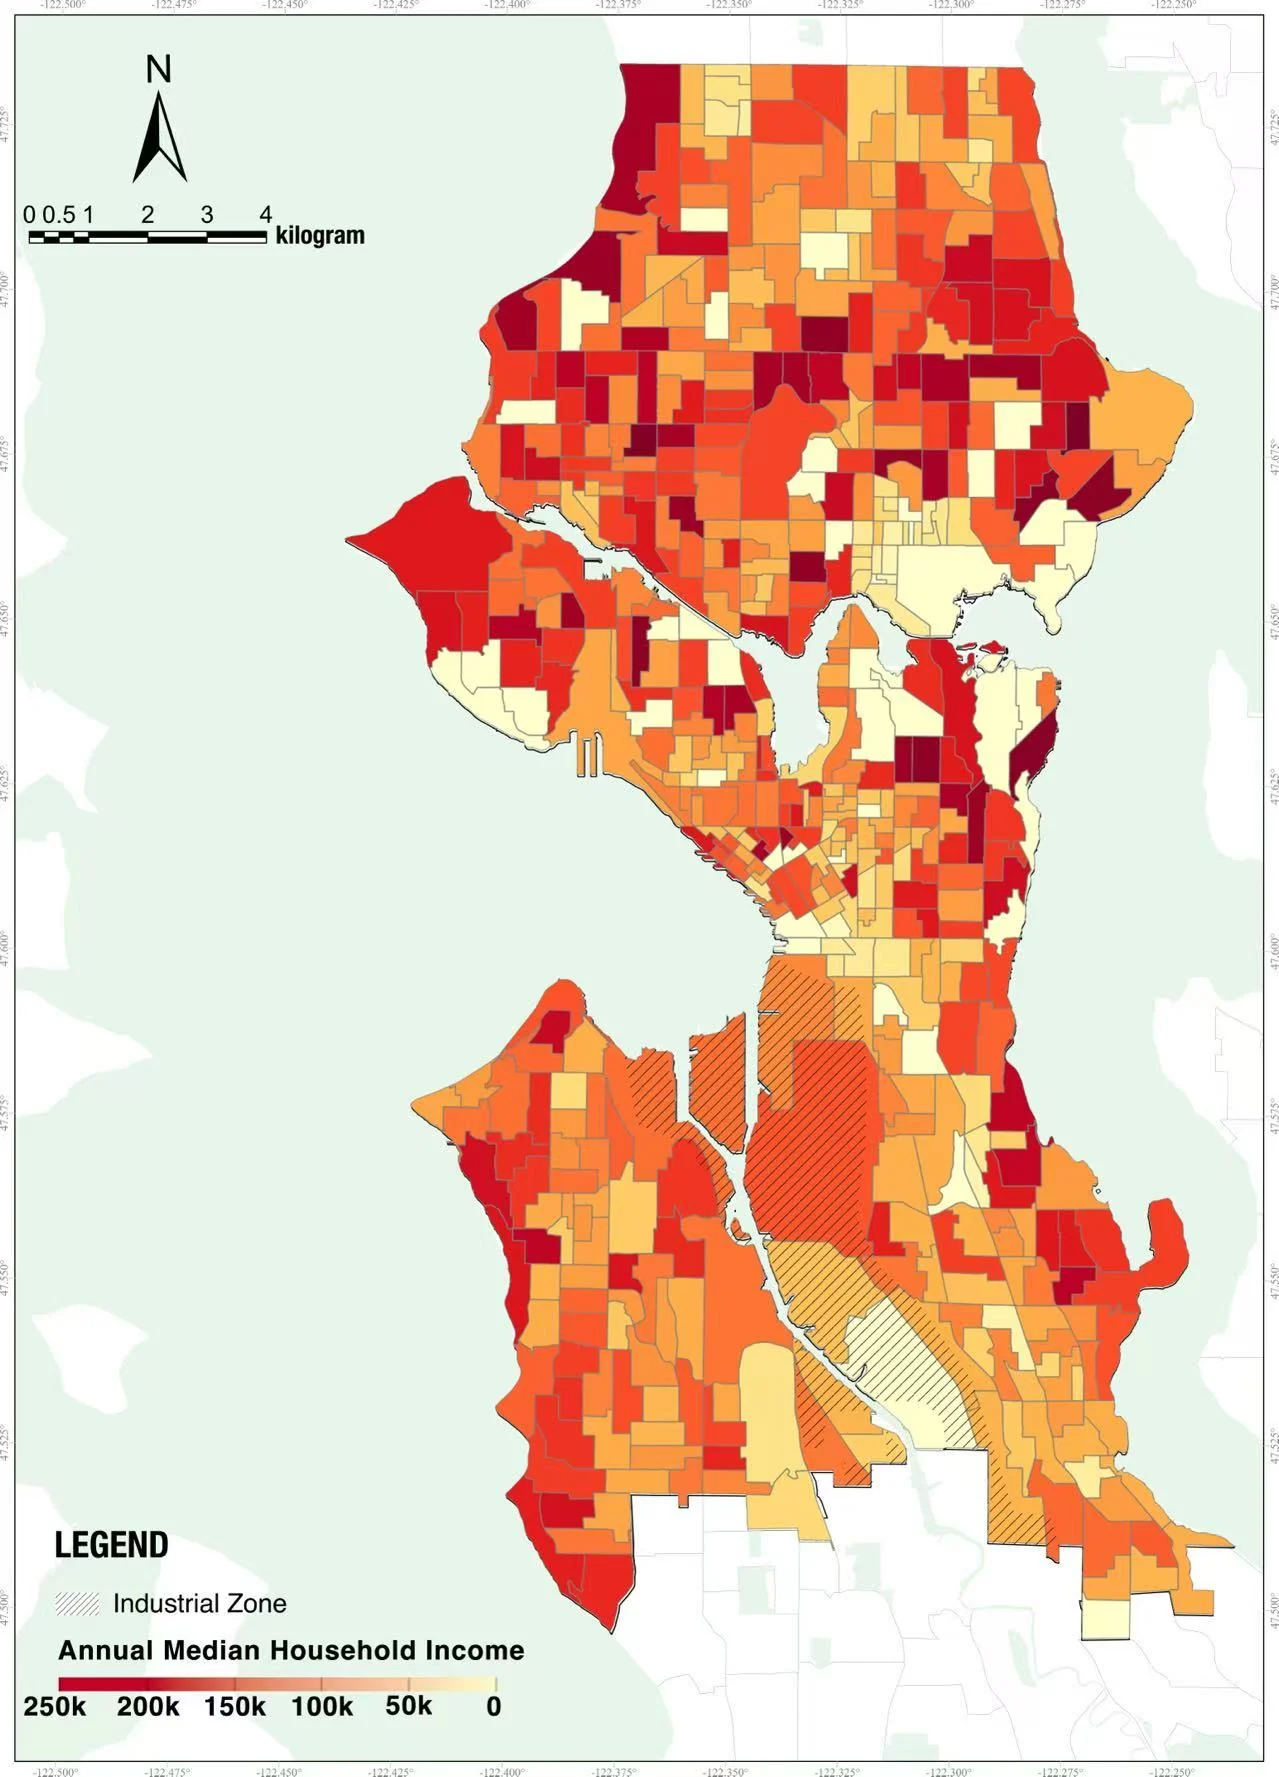
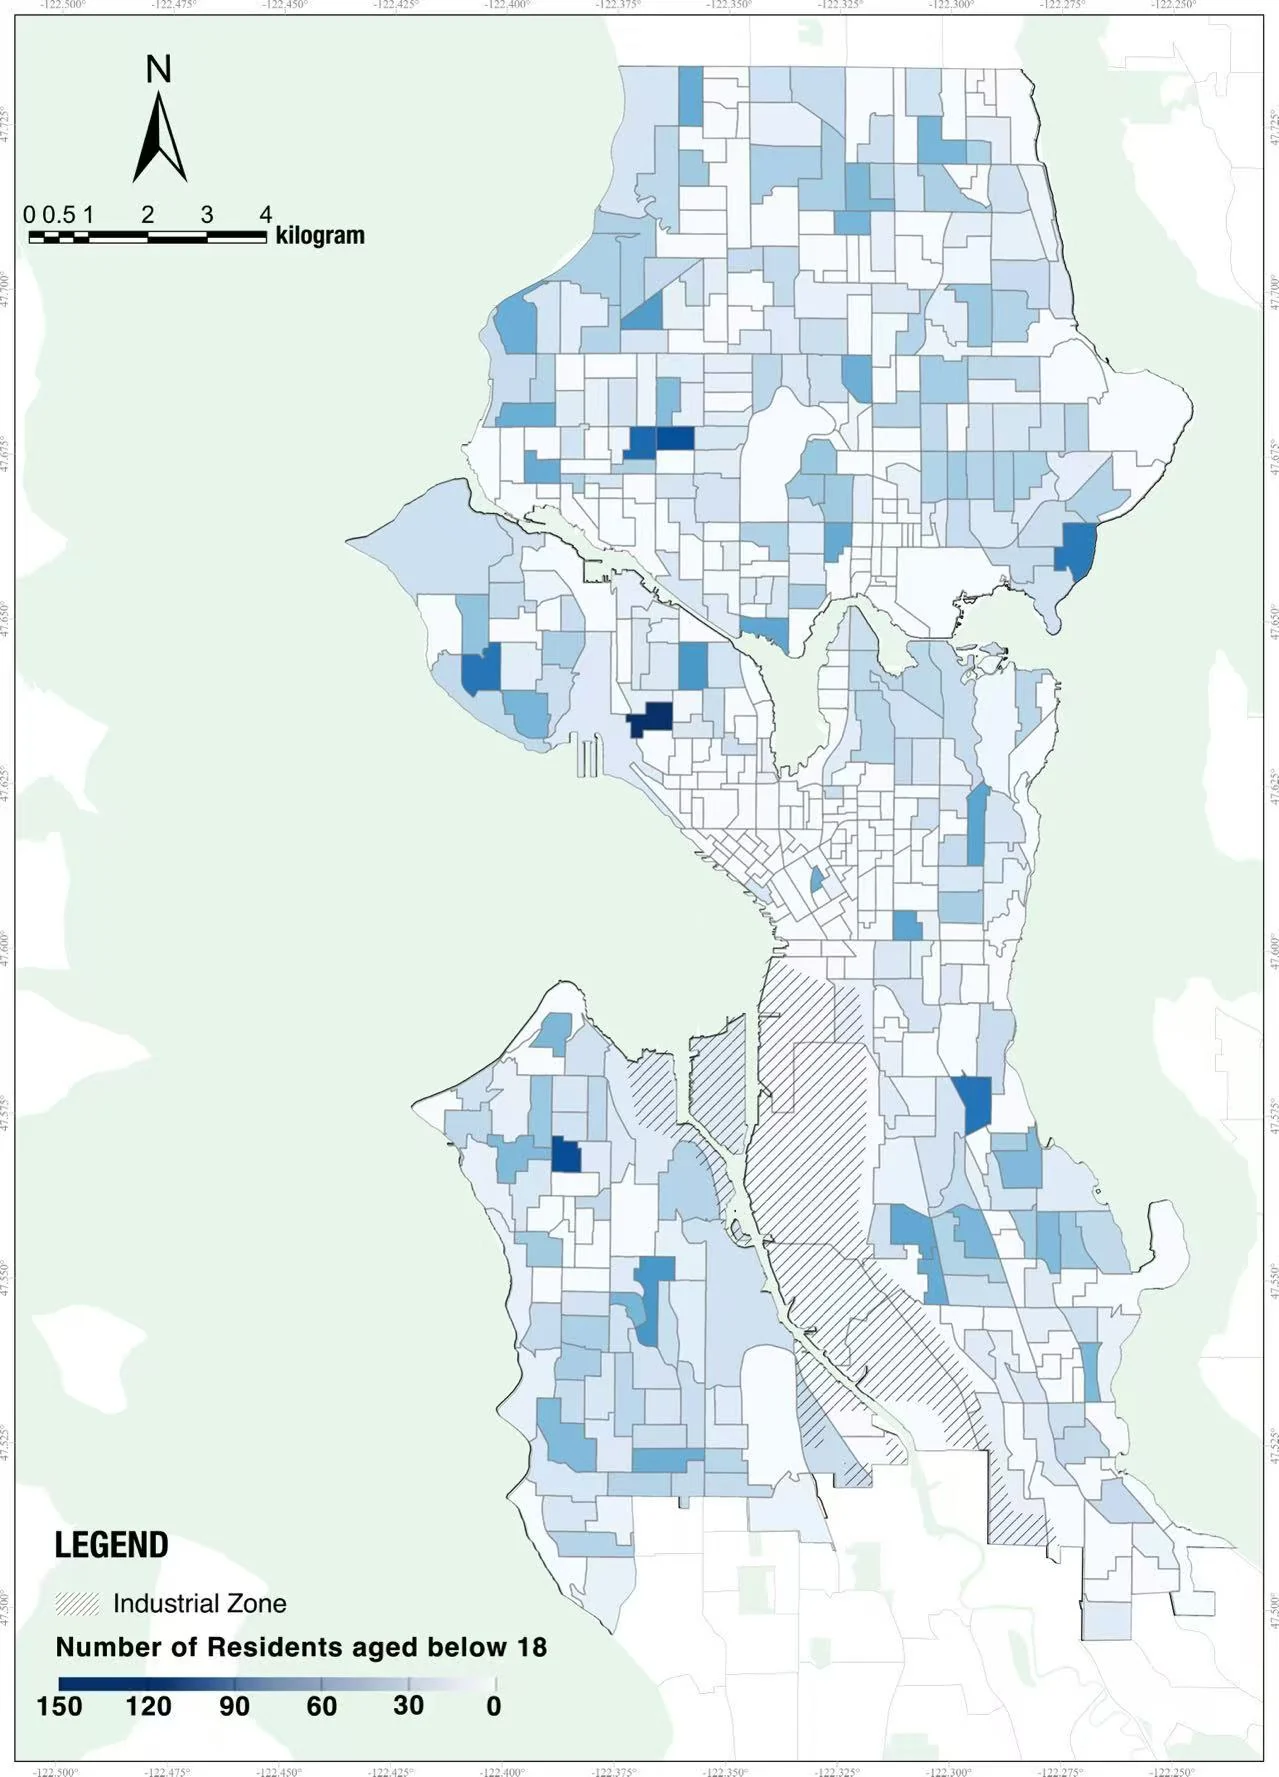
Publish complete analysis figure narratives

diff --git a/scripts/content/analysis-content.js b/scripts/content/analysis-content.js
@@ -42,16 +42,60 @@ window.ANALYSIS_CONTENT = {
       {
         image: 'assets/accessibility_figure/01-web.webp',
         label: 'Figure 01',
-        title: '大语言模型表现对比\nComparison of LLM models performance',
-        text: ''
+        layout: 'stacked',
+        title: '不同可达性计算方式对比\nComparison of Accessibility Measures',
+        text: '本研究将具体活动类型及其强度视为可达性分析的目的地，而非将公园作为单一整体。在这一活动导向的框架下，可达性反映居民参与特定活动的机会，而不仅是到达公园的能力，从而更准确地体现公园功能的多样性。\n\nThis study treats specific activity types and intensity levels, rather than parks as a whole, as the destinations of accessibility analysis. Under this activity-oriented framework, accessibility reflects opportunities to participate in particular activities rather than simply reach a park, providing a more accurate representation of park functional diversity.'
       },
-      { image: 'assets/accessibility_figure/02-web.webp', label: 'Figure 02', title: '', text: '' },
-      { image: 'assets/accessibility_figure/03-web.webp', label: 'Figure 03', title: '', text: '' },
-      { image: 'assets/accessibility_figure/05-web.webp', label: 'Figure 05', title: '', text: '' },
-      { image: 'assets/accessibility_figure/06-web.webp', label: 'Figure 06', title: '', text: '' },
-      { image: 'assets/accessibility_figure/07-web.webp', label: 'Figure 07', title: '', text: '' },
-      { image: 'assets/accessibility_figure/08-web.webp', label: 'Figure 08', title: '', text: '' },
-      { image: 'assets/accessibility_figure/09-web.webp', label: 'Figure 09', title: '', text: '' }
+      {
+        image: 'assets/accessibility_figure/02-web.webp',
+        label: 'Figure 02',
+        title: '大语言模型表现对比\nComparison of LLM Performance',
+        text: '通过比较人工标注测试集与不同模型的识别结果，Qwen3.5-V2表现最佳，因此被选为主要模型。\n\nBy comparing model outputs with a manually annotated test set, Qwen3.5-V2 achieved the best overall performance and was therefore selected as the primary model.'
+      },
+      {
+        image: 'assets/accessibility_figure/03-web.webp',
+        label: 'Figure 03',
+        layout: 'stacked',
+        title: '消融实验结果\nAblation Study Results',
+        text: '传统关键词和机器学习方法难以兼顾精确率与召回率。相比之下，完整LLM流程取得了最佳表现，在Micro-F1、Macro-F1和Jaccard指标上均明显优于基础模型，同时保持了较稳定的召回率，说明提示词设计、任务分解和后处理能够有效提升活动识别的准确性与类别均衡性。\n\nTraditional keyword-based and machine-learning methods struggled to balance precision and recall. In contrast, the full LLM pipeline achieved the best performance, substantially improving Micro-F1, Macro-F1, and Jaccard over the basic model while maintaining stable recall. This indicates that prompt design, task decomposition, and post-processing effectively improve identification accuracy and class-level balance.'
+      },
+      {
+        image: 'assets/accessibility_figure/04-web.webp',
+        label: 'Figure 04',
+        title: '公园面积可达性与活动可达性存在明显差异\nMismatch Between Park Area and Activity Accessibility',
+        text: '公园面积可达性并不能充分反映居民实际获得的活动机会。部分地区虽然邻近公园或面积可达性较高，但活动类型、服务容量和设施配置仍然有限，说明到达公园并不等同于获得多样且适宜的活动服务。\n\nPark-area accessibility does not fully reflect residents’ actual access to recreational opportunities. Some neighborhoods are close to parks or have high area-based accessibility but still offer limited activity types, service capacity, and facilities. Reaching a park therefore does not necessarily ensure access to diverse and appropriate activities.'
+      },
+      {
+        image: 'assets/accessibility_figure/05-web.webp',
+        label: 'Figure 05',
+        title: '公园活动可达性呈现显著的中心—外围空间分异\nSpatial Disparities in Activity Accessibility',
+        text: '西雅图中心城区及邻近地区在活动多样性、出行、健身、体育、家庭、休闲和文化活动等方面具有较高可达性，可能与活动供给丰富、步行网络连续和公园使用热度较高有关。相比之下，南部地区在多数活动类别中表现出持续低可达性，反映出供给不足、步行连通性较弱和人口竞争压力较高等问题。\n\nCentral Seattle and adjacent neighborhoods show high accessibility across activity diversity, mobility, fitness, sports, family, leisure, and cultural activities. This pattern may be related to diverse activity provision, continuous pedestrian networks, and greater park popularity. In contrast, southern Seattle consistently exhibits low accessibility across most categories, reflecting insufficient provision, limited pedestrian connectivity, and stronger population competition.'
+      },
+      {
+        image: 'assets/accessibility_figure/06-web.webp',
+        label: 'Figure 06',
+        title: '公园面积不能替代活动设施与功能供给\nPark Size Does Not Equal Activity Provision',
+        text: '公园面积与活动多样性的空间分布并不完全一致。部分大型公园主要提供自然体验、步行和休闲活动，而面积较小但设施密集的城市公园可能支持更多活动类型。因此，增加公园面积不能替代对设施、项目和活动功能的精细配置。\n\nThe spatial distributions of park area and activity diversity do not fully correspond. Some large parks mainly support nature-based experiences, walking, and leisure, whereas smaller but highly programmed urban parks may provide a wider range of activities. Increasing park area therefore cannot substitute for targeted facilities, programs, and activity functions.'
+      },
+      {
+        image: 'assets/accessibility_figure/07-web.webp',
+        label: 'Figure 07',
+        title: '不同活动类型表现出明显的地理依赖性\nGeographic Differences in Activity Accessibility',
+        text: '部分活动机会受到自然地理和城市功能布局的限制。水上活动主要集中于滨水地区，内陆社区居民获得游泳及亲水活动的机会较少。文化活动则更多集中于城市中心和区域节点，使外围地区居民较难参与节庆、公共活动和社区聚会。\n\nSome activity opportunities are constrained by physical geography and urban functions. Water-based activities are concentrated along the waterfront, limiting access for inland residents. Cultural activities are also clustered in the urban center and regional nodes, reducing access to festivals, public events, and community gatherings in peripheral neighborhoods.'
+      },
+      {
+        images: ['assets/accessibility_figure/09-web.webp','assets/accessibility_figure/10-web.webp'],
+        label: 'Figure 08',
+        layout: 'stacked',
+        title: '儿童和老年人口的活动需求与公园供给存在空间错配\nMismatch Between Age-Specific Demand and Supply',
+        text: '儿童和老年人口分布与相关活动供给之间存在明显错配。部分儿童和老年人口集中的居住区缺乏足够的儿童游憩、体育和休闲设施，说明现有公园供给尚未充分回应不同年龄群体的需求。\n\nA clear mismatch exists between the distribution of children and older adults and the provision of relevant activities. Several neighborhoods with high concentrations of these groups lack sufficient play, sports, and leisure facilities, indicating that current park provision does not adequately address age-specific needs.'
+      },
+      {
+        image: 'assets/accessibility_figure/08-web.webp',
+        label: 'Figure 09',
+        title: '现有优先发展区域尚未完全识别活动公平性缺口\nGaps in Existing Priority Areas',
+        text: '活动可达性低值区与西雅图现有优先发展区域并不完全重合。尽管现有政策关注公园面积、开放空间质量和社会公平，但指标仍较为宏观，难以识别具体活动类型、多样性和服务能力的不足。因此，现有优先发展策略尚未完全回应活动机会公平问题。\n\nAreas of low activity accessibility do not fully overlap with Seattle’s existing prioritization areas. Although current policies consider park acreage, open-space quality, and social equity, their indicators remain too broad to identify deficiencies in specific activity types, diversity, and service capacity. Existing prioritization strategies therefore do not fully address inequities in recreational opportunities.'
+      }
     ]
   },
   regression: {
@@ -60,9 +104,47 @@ window.ANALYSIS_CONTENT = {
     intro: '',
     folder: 'assets/regression_figure/',
     items: [
-      { image: 'assets/regression_figure/01.png', label: 'Figure 01', title: '', text: '' },
-      { image: 'assets/regression_figure/02-web.webp', label: 'Figure 02', title: '', text: '' },
-      { image: 'assets/regression_figure/03-web.webp', label: 'Figure 03', title: '', text: '' }
+      {
+        image: 'assets/regression_figure/01.png',
+        label: 'Figure 01',
+        layout: 'stacked',
+        title: 'OLS回归结果：西雅图公园可达性的社会人口影响因素\nOLS Regression Results: Socio-demographic Correlates of Park Accessibility in Seattle',
+        text: '该表展示了各社会人口变量与公园可达性之间的回归关系，包括回归系数、标准误、t统计量和显著性水平。主要解释变量包括总人口、18岁以下人口、65岁及以上人口、家庭收入中位数和种族构成，用于识别不同人群在公园可达性方面的潜在差异。\n\nThis table presents the regression coefficients, standard errors, t-statistics, and significance levels for the socio-demographic correlates of park accessibility. Key predictors include total population, populations under 18 and aged 65 or above, median household income, and racial composition, allowing potential disparities in park accessibility across population groups to be identified.'
+      },
+      {
+        image: 'assets/regression_figure/02-web.webp',
+        label: 'Figure 02',
+        title: 'OLS模型诊断结果\nOLS Model Diagnostic Plots',
+        text: 'Q-Q图用于检验残差的正态性，结果整体接近理论分布，但尾部存在轻微偏离。Cook距离图用于识别对模型结果影响较大的异常观测值，其中红色虚线表示4/n阈值。少数观测值超过或接近该阈值，需要进一步核查，但总体上未明显影响模型稳定性。\n\nThe Q-Q plot evaluates the normality of the residuals and indicates an overall good fit, with minor deviations at the tails. Cook’s Distance is used to identify influential observations, with the red dashed line representing the 4/n threshold. A small number of observations approach or exceed this threshold and warrant further examination, but they do not appear to undermine the overall stability of the model.'
+      },
+      {
+        icon: 'policy',
+        tags: ['Activity diversity','Service capacity','Population fit'],
+        label: 'Insight 03',
+        title: '政策建议\nPolicy Recommendations',
+        text: '公园规划应从距离和面积导向的可达性评价转向活动导向的可达性评价。在优先发展区域识别中，应纳入活动多样性、服务容量、感知质量和人群适配性等指标，并重点关注儿童、老年人、低收入群体和无车家庭的活动供需错配。\n\nPark planning should shift from distance- and area-based accessibility toward activity-based accessibility. The identification of priority areas should incorporate activity diversity, service capacity, perceived quality, and population suitability, with particular attention to demand–supply mismatches affecting children, older adults, low-income residents, and car-free households.'
+      },
+      {
+        icon: 'contribution',
+        tags: ['Concept','Method','Data','Planning'],
+        label: 'Insight 04',
+        title: '研究贡献\nResearch Contributions',
+        text: '在概念层面，本研究将公园可达性从公园整体导向拓展为具体活动导向；在方法层面，利用大语言模型识别Google Reviews中的活动语义；在数据层面，将非结构化评论转化为公园活动画像；在规划层面，揭示传统距离和面积指标难以识别的活动公平问题。\n\nConceptually, this study extends park-based accessibility toward activity-based accessibility. Methodologically, it applies a large language model to identify activity-related meanings in Google Reviews. Empirically, it transforms unstructured reviews into park-level activity profiles. From a planning perspective, it reveals functional inequities that conventional distance- and area-based measures may overlook.'
+      },
+      {
+        icon: 'limitations',
+        tags: ['Platform bias','LLM uncertainty','Daytime demand'],
+        label: 'Insight 05',
+        title: '研究局限\nLimitations',
+        text: 'Google Reviews可能偏向知名公园、游客密集型公园及平台活跃人群，因此评论缺失并不代表活动不存在。LLM识别结果也可能受到提示词设计、语义模糊和多标签边界的影响。此外，仅使用居住人口可能低估市中心游客、通勤者和日间使用者产生的实际需求。\n\nGoogle Reviews may overrepresent well-known parks, tourist-oriented parks, and digitally active users; therefore, the absence of reviews does not necessarily indicate the absence of activities. LLM outputs may also be affected by prompt design, semantic ambiguity, and unclear boundaries between multiple labels. In addition, residential population data may underestimate demand generated by tourists, commuters, and other daytime users in the city center.'
+      },
+      {
+        icon: 'conclusion',
+        tags: ['Reach','Participate','Equity'],
+        label: 'Insight 06',
+        title: '结论\nConclusion',
+        text: '尽管西雅图在传统公园可达性指标上表现较好，但其活动机会在空间上仍分布不均。公园公平性不仅取决于距离和面积，还应考虑具体活动的类型、强度、多样性和质量。结合LLM、Google Reviews与2SFCA方法，可以构建活动导向的公园可达性评估框架。公园公平性的核心不只是居民能否到达公园，而是能否获得多样、适宜且符合实际需求的活动机会。\n\nAlthough Seattle performs well under conventional measures of park accessibility, park activity opportunities remain unevenly distributed. Park equity should therefore be evaluated not only by distance and area but also by the type, intensity, diversity, and quality of available activities. Integrating LLM-based review analysis with Google Reviews and the 2SFCA method provides an activity-oriented accessibility framework. Ultimately, park equity concerns not only whether residents can reach a park, but whether they can access diverse, appropriate, and demand-responsive recreational opportunities.'
+      }
     ]
   }
 };

diff --git a/scripts/components/analysis-modal.js b/scripts/components/analysis-modal.js
@@ -1,14 +1,24 @@
 (function(App){
-  let modal,dialog,figureImage,figureFallback,eyebrow,title,intro,label,itemTitle,text,caption,counter,dots,previous,next,emptyState,reader;
-  let sectionKey='study',itemIndex=0,lastFocus=null,isInitialized=false,closeTimer=null;
+  let modal,dialog,figureStage,figureImage,figureFallback,conceptVisual,eyebrow,title,intro,label,itemTitle,text,caption,counter,dots,previous,next,emptyState,reader;
+  let sectionKey='study',itemIndex=0,lastFocus=null,isInitialized=false,closeTimer=null,profileWidth=1,profileHeight=1;
 
   const content=()=>window.ANALYSIS_CONTENT?.[sectionKey];
   const items=()=>content()?.items||[];
 
-  const layoutClasses=['is-split','is-stacked','is-title-only','is-visual-only'];
+  const layoutClasses=['is-split','is-stacked','is-title-only','is-visual-only','is-concept'];
   const ratioClasses=['is-panorama','is-landscape','is-square','is-portrait'];
 
+  const conceptIcons={
+    policy:'<svg viewBox="0 0 120 120" aria-hidden="true"><path d="M28 27h48l16 16v51H28z"/><path d="M76 27v18h16M43 57l7 7 13-15M43 77l7 7 13-15M70 59h11M70 79h11"/></svg>',
+    contribution:'<svg viewBox="0 0 120 120" aria-hidden="true"><circle cx="60" cy="60" r="15"/><circle cx="27" cy="28" r="10"/><circle cx="93" cy="28" r="10"/><circle cx="27" cy="92" r="10"/><circle cx="93" cy="92" r="10"/><path d="M49 49 34 35M71 49l15-14M49 71 34 85M71 71l15 14M60 53v14M53 60h14"/></svg>',
+    limitations:'<svg viewBox="0 0 120 120" aria-hidden="true"><path d="M60 20 102 94H18z"/><path d="M60 46v23"/><circle cx="60" cy="81" r="2"/><path class="orbit" d="M20 43C39 19 82 15 101 43M16 76c18 26 65 34 91 5"/></svg>',
+    conclusion:'<svg viewBox="0 0 120 120" aria-hidden="true"><circle cx="60" cy="60" r="39"/><circle cx="60" cy="60" r="25"/><path d="m43 60 11 11 24-27"/><path class="orbit" d="M19 59C29 27 66 10 95 29"/></svg>'
+  };
+
+  const imageSources=item=>item.images?.length?item.images:(item.image?[item.image]:[]);
+
   function layoutFor(item){
+    if(!imageSources(item).length)return 'is-concept';
     if(item.layout==='stacked')return 'is-stacked';
     if(item.text||item.caption)return 'is-split';
     if(item.title)return 'is-title-only';
@@ -33,7 +43,10 @@
     let targetWidth;
     let targetHeight;
 
-    if(layout==='is-visual-only'){
+    if(layout==='is-concept'){
+      targetWidth=Math.min(maxWidth,1180);
+      targetHeight=Math.min(maxHeight,760);
+    }else if(layout==='is-visual-only'){
       const chrome=compact?138:148;
       const horizontalSpace=compact?32:60;
       const stageHeight=Math.min(maxHeight-chrome,(maxWidth-horizontalSpace)/ratio);
@@ -58,6 +71,8 @@
   }
 
   function applyImageProfile(item,width,height){
+    profileWidth=width;
+    profileHeight=height;
     const layout=layoutFor(item);
     const ratioClass=ratioFor(width,height);
     [reader,dialog].forEach(element=>{
@@ -68,26 +83,64 @@
     sizeDialog(item,width,height);
   }
 
+  function conceptMarkup(item){
+    const tags=(item.tags||[]).map(tag=>`<span>${App.utils.escape(tag)}</span>`).join('');
+    return `<div class="analysis-concept-orbit"><i></i><i></i><i></i><div class="analysis-concept-symbol">${conceptIcons[item.icon]||conceptIcons.conclusion}</div></div><b>${App.utils.escape(item.label||'Key insight')}</b><div class="analysis-concept-tags">${tags}</div>`;
+  }
+
   function setImage(item){
+    const sources=imageSources(item);
     figureImage.classList.remove('is-loaded');
+    figureImage.onload=null;
+    figureImage.onerror=null;
+    figureStage.querySelectorAll('.analysis-figure-secondary').forEach(image=>image.remove());
+    figureStage.classList.toggle('is-gallery',sources.length>1);
     const provisionalLayout=layoutFor(item);
     [reader,dialog].forEach(element=>{
-      element.classList.remove(...layoutClasses);
+      element.classList.remove(...layoutClasses,...ratioClasses);
       element.classList.add(provisionalLayout);
     });
     figureFallback.hidden=true;
+    conceptVisual.hidden=Boolean(sources.length);
+    figureImage.hidden=!sources.length;
+
+    if(!sources.length){
+      figureImage.removeAttribute('src');
+      conceptVisual.innerHTML=conceptMarkup(item);
+      applyImageProfile(item,1,1);
+      return;
+    }
+
+    conceptVisual.innerHTML='';
     figureImage.alt=item.alt||item.title||'Analysis figure';
-    figureImage.onload=()=>{
-      applyImageProfile(item,figureImage.naturalWidth,figureImage.naturalHeight);
-      figureImage.classList.add('is-loaded');
+    const imageElements=[figureImage];
+    for(let index=1;index<sources.length;index++){
+      const image=document.createElement('img');
+      image.className='analysis-figure-secondary';
+      image.alt=`${item.alt||item.title||'Analysis figure'} ${index+1}`;
+      figureStage.insertBefore(image,conceptVisual);
+      imageElements.push(image);
+    }
+    let loaded=0;
+    const settle=()=>{
+      loaded+=1;
+      if(loaded!==imageElements.length)return;
+      const maxHeight=Math.max(...imageElements.map(image=>image.naturalHeight));
+      const combinedWidth=imageElements.reduce((sum,image)=>sum+image.naturalWidth*(maxHeight/image.naturalHeight),0);
+      applyImageProfile(item,combinedWidth,maxHeight);
+      imageElements.forEach(image=>image.classList.add('is-loaded'));
     };
-    figureImage.onerror=()=>{
+    const fail=()=>{
       figureImage.classList.remove('is-loaded');
       figureFallback.hidden=false;
       figureFallback.querySelector('b').textContent='Figure unavailable';
-      figureFallback.querySelector('span').textContent=item.image;
+      figureFallback.querySelector('span').textContent=sources.join(', ');
     };
-    figureImage.src=item.image;
+    imageElements.forEach((image,index)=>{
+      image.onload=settle;
+      image.onerror=fail;
+      image.src=sources[index];
+    });
   }
 
   function render(){
@@ -125,8 +178,10 @@
     dots.innerHTML=sectionItems.map((entry,index)=>`<button type="button" class="${index===itemIndex?'is-active':''}" data-analysis-index="${index}" aria-label="Show ${App.utils.escape(entry.label||`figure ${index+1}`)}" aria-current="${index===itemIndex?'true':'false'}"></button>`).join('');
     dots.querySelectorAll('[data-analysis-index]').forEach(button=>button.addEventListener('click',()=>show(Number(button.dataset.analysisIndex))));
     if(sectionItems[itemIndex+1]){
-      const preload=new Image();
-      preload.src=sectionItems[itemIndex+1].image;
+      imageSources(sectionItems[itemIndex+1]).forEach(source=>{
+        const preload=new Image();
+        preload.src=source;
+      });
     }
   }
 
@@ -181,8 +236,10 @@
     isInitialized=true;
     modal=document.querySelector('#analysis-modal');
     dialog=modal.querySelector('.analysis-dialog');
+    figureStage=modal.querySelector('.analysis-figure-stage');
     figureImage=modal.querySelector('#analysis-figure-image');
     figureFallback=modal.querySelector('#analysis-figure-fallback');
+    conceptVisual=modal.querySelector('#analysis-concept-visual');
     eyebrow=modal.querySelector('#analysis-eyebrow');
     title=modal.querySelector('#analysis-title');
     intro=modal.querySelector('#analysis-intro');
@@ -202,7 +259,7 @@
     next.addEventListener('click',()=>show(itemIndex+1));
     document.addEventListener('keydown',onKeydown);
     window.addEventListener('resize',()=>{
-      if(!modal.hidden&&figureImage.naturalWidth)applyImageProfile(items()[itemIndex],figureImage.naturalWidth,figureImage.naturalHeight);
+      if(!modal.hidden)applyImageProfile(items()[itemIndex],profileWidth,profileHeight);
     });
   }
 

diff --git a/styles/analysis-modal.css b/styles/analysis-modal.css
@@ -58,7 +58,11 @@
   position:absolute;inset:0;display:block;width:100%;height:100%;object-fit:contain;opacity:0;transform:scale(.99);
   transition:opacity .3s,transform .45s var(--ease);
 }
+.analysis-figure-stage img[hidden]{display:none}
 .analysis-figure-stage img.is-loaded{opacity:1;transform:none}
+.analysis-figure-stage.is-gallery{display:block;padding:0}
+.analysis-figure-stage.is-gallery img{position:absolute;inset:0 auto 0 0;width:50%;height:100%;padding:8px;object-fit:contain}
+.analysis-figure-stage.is-gallery .analysis-figure-secondary{left:50%}
 .analysis-figure-fallback{position:absolute;inset:0;z-index:2;place-content:center;text-align:center;padding:30px;color:#7c8887}
 .analysis-figure-fallback:not([hidden]){display:grid}
 .analysis-figure-fallback b{font-size:14px}
@@ -71,6 +75,19 @@
   display:block;max-width:420px;margin-top:26px;padding-top:15px;color:#87918f;
   font-size:8px;line-height:1.55;border-top:1px solid rgba(81,96,104,.11);
 }
+
+.analysis-concept-visual{position:absolute;z-index:1;inset:0;display:grid;place-content:center;justify-items:center;overflow:hidden;background:radial-gradient(circle at 50% 44%,rgba(255,255,255,.96),rgba(239,243,240,.82) 48%,rgba(229,235,233,.92));color:#536273}
+.analysis-concept-visual[hidden]{display:none}
+.analysis-concept-visual:before,.analysis-concept-visual:after{content:"";position:absolute;width:260px;height:260px;border-radius:50%;border:1px solid rgba(165,119,173,.16)}
+.analysis-concept-visual:before{transform:translate(-42%,-38%)}.analysis-concept-visual:after{transform:translate(45%,44%);border-color:rgba(82,153,204,.17)}
+.analysis-concept-orbit{position:relative;width:220px;height:220px;display:grid;place-items:center}
+.analysis-concept-orbit>i{position:absolute;inset:13px;border:1px solid rgba(90,111,126,.13);border-radius:50%;animation:concept-orbit 14s linear infinite}
+.analysis-concept-orbit>i:nth-child(2){inset:34px;border-style:dashed;animation-duration:19s;animation-direction:reverse}.analysis-concept-orbit>i:nth-child(3){inset:54px;border-color:rgba(165,119,173,.23);animation-duration:11s}
+.analysis-concept-symbol{position:relative;z-index:2;width:116px;height:116px;border-radius:36px;display:grid;place-items:center;background:linear-gradient(145deg,rgba(245,153,161,.2),rgba(165,119,173,.22) 48%,rgba(82,153,204,.23));box-shadow:0 22px 50px rgba(57,72,85,.14),inset 0 0 0 1px rgba(255,255,255,.74)}
+.analysis-concept-symbol svg{width:76px;height:76px;fill:none;stroke:#52657a;stroke-width:3;stroke-linecap:round;stroke-linejoin:round}.analysis-concept-symbol svg .orbit{stroke:#a577ad;stroke-width:1.8;stroke-dasharray:4 6}
+.analysis-concept-visual>b{margin-top:-11px;font-size:8px;letter-spacing:.18em;text-transform:uppercase;color:#8a7097}
+.analysis-concept-tags{position:relative;z-index:2;margin-top:15px;display:flex;justify-content:center;flex-wrap:wrap;gap:7px;max-width:340px}.analysis-concept-tags span{padding:7px 10px;border-radius:99px;background:rgba(255,255,255,.74);box-shadow:0 6px 18px rgba(47,65,77,.07);font-size:7px;letter-spacing:.06em;color:#61717c}
+@keyframes concept-orbit{to{transform:rotate(360deg)}}
 
 @media(min-width:761px){
   .analysis-reader.is-split{grid-template-columns:minmax(0,1.4fr) minmax(300px,.76fr);grid-template-rows:auto minmax(0,1fr);column-gap:28px;row-gap:14px;overflow:hidden}
@@ -105,6 +122,14 @@
   .analysis-reader.is-visual-only .analysis-narrative{position:absolute;z-index:3;top:14px;left:44px;max-height:none;overflow:visible;padding:0;pointer-events:none}
   .analysis-reader.is-visual-only .analysis-narrative-title>span{display:inline-flex;padding:8px 11px;border-radius:99px;background:rgba(250,251,249,.84);box-shadow:0 6px 20px rgba(24,38,45,.1);backdrop-filter:blur(12px)}
   .analysis-reader.is-visual-only .analysis-narrative-title h3,.analysis-reader.is-visual-only .analysis-narrative-body{display:none}
+
+  .analysis-reader.is-concept{grid-template-columns:minmax(350px,.86fr) minmax(390px,1fr);grid-template-rows:auto minmax(0,1fr);column-gap:34px;row-gap:14px;overflow:hidden}
+  .analysis-reader.is-concept .analysis-figure-stage{grid-column:1;grid-row:2;min-height:0}
+  .analysis-reader.is-concept .analysis-narrative{display:contents}
+  .analysis-reader.is-concept .analysis-narrative-title{grid-column:1/3;grid-row:1;padding:2px 4px 0;min-width:0}
+  .analysis-reader.is-concept .analysis-narrative-title h3{max-width:none;font-size:31px;line-height:1.08;margin:7px 0 0}
+  .analysis-reader.is-concept .analysis-narrative-body{grid-column:2;grid-row:2;align-self:center;max-height:100%;overflow:auto;padding:18px 12px 18px 0}
+  .analysis-reader.is-concept .analysis-narrative-body p{max-width:none;font-size:12.5px;line-height:1.78}
 
   .analysis-dialog.is-panorama .analysis-modal-header{padding-top:22px;padding-bottom:14px}
   .analysis-dialog.is-panorama .analysis-modal-header h2{font-size:25px}
@@ -158,6 +183,7 @@
   .analysis-reader.is-visual-only .analysis-narrative{position:absolute;z-index:3;top:12px;left:28px;max-height:none;overflow:visible;padding:0;pointer-events:none}
   .analysis-reader.is-visual-only .analysis-narrative-title>span{display:inline-flex;padding:7px 10px;border-radius:99px;background:rgba(250,251,249,.86);box-shadow:0 5px 18px rgba(24,38,45,.1);backdrop-filter:blur(10px)}
   .analysis-reader.is-visual-only .analysis-narrative-title h3,.analysis-reader.is-visual-only .analysis-narrative-body{display:none}
+  .analysis-concept-orbit{width:175px;height:175px}.analysis-concept-symbol{width:96px;height:96px;border-radius:30px}.analysis-concept-symbol svg{width:62px;height:62px}.analysis-concept-tags{margin-top:9px;padding:0 12px}.analysis-concept-tags span{padding:6px 8px}
   .analysis-empty{margin:0 16px 14px;padding:30px 18px}
   .analysis-empty h3{font-size:23px}
   .analysis-modal-footer{min-height:58px;padding:0 18px 12px;grid-template-columns:1fr auto}

diff --git a/index.html b/index.html
@@ -13,7 +13,7 @@
   <link rel="stylesheet" href="styles/pages.css?v=20260720-home-title24">
   <link rel="stylesheet" href="styles/responsive.css?v=20260720-home-title24">
   <link rel="stylesheet" href="styles/story.css?v=20260718-story3">
-  <link rel="stylesheet" href="styles/analysis-modal.css?v=20260720-layout-adaptive23">
+  <link rel="stylesheet" href="styles/analysis-modal.css?v=20260720-analysis-final25">
   <link rel="stylesheet" href="styles/comment-story.css?v=20260719-comments6">
   <link rel="stylesheet" href="styles/view-mode.css?v=20260719-chapter-swap18">
 </head>
@@ -185,6 +185,7 @@
         <div class="analysis-reader" id="analysis-reader">
           <figure class="analysis-figure-stage">
             <img id="analysis-figure-image" alt="">
+            <div class="analysis-concept-visual" id="analysis-concept-visual" hidden></div>
             <div class="analysis-figure-fallback" id="analysis-figure-fallback" hidden><b>Figure unavailable</b><span></span></div>
           </figure>
           <article class="analysis-narrative">
@@ -210,8 +211,8 @@
   <script src="scripts/config.js?v=20260719-access-color13"></script>
   <script src="scripts/core/data-loader.js"></script>
   <script src="scripts/core/map-manager.js?v=20260719-homeorbit16"></script>
-  <script src="scripts/content/analysis-content.js?v=20260720-layout-adaptive23"></script>
-  <script src="scripts/components/analysis-modal.js?v=20260720-layout-adaptive23"></script>
+  <script src="scripts/content/analysis-content.js?v=20260720-analysis-final25"></script>
+  <script src="scripts/components/analysis-modal.js?v=20260720-analysis-final25"></script>
   <script src="scripts/components/info-panel.js?v=20260718-diversity"></script>
   <script src="scripts/components/map-view-mode.js?v=20260719-chapter-swap18"></script>
   <script src="scripts/pages/home.js"></script>